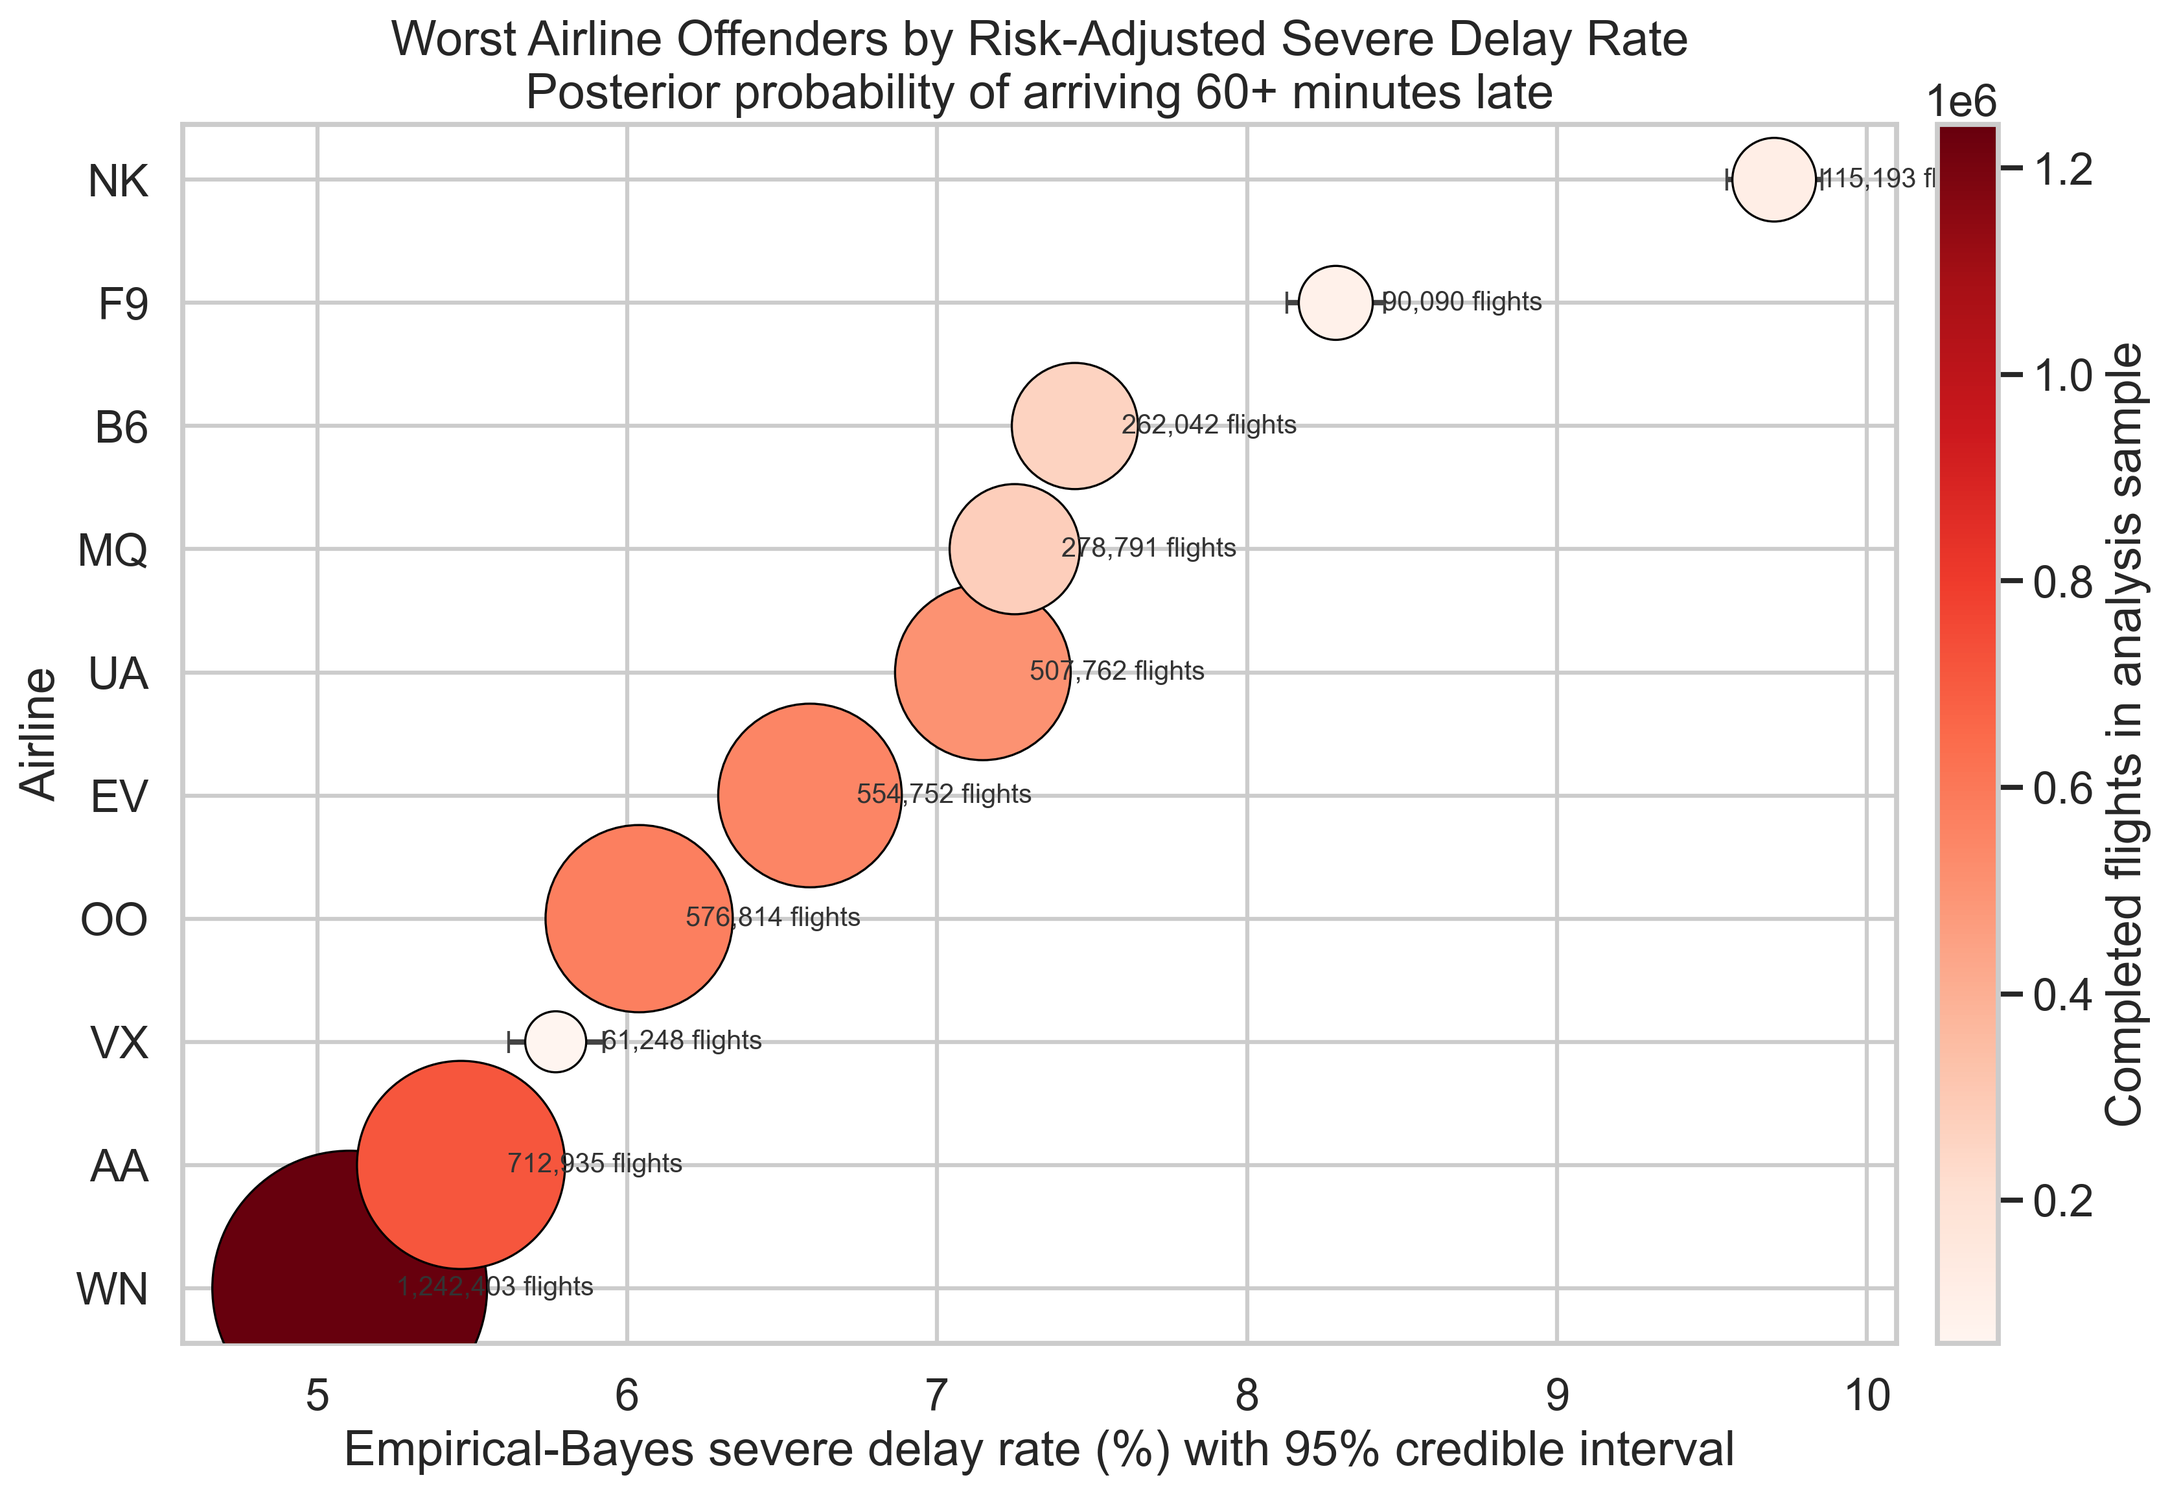
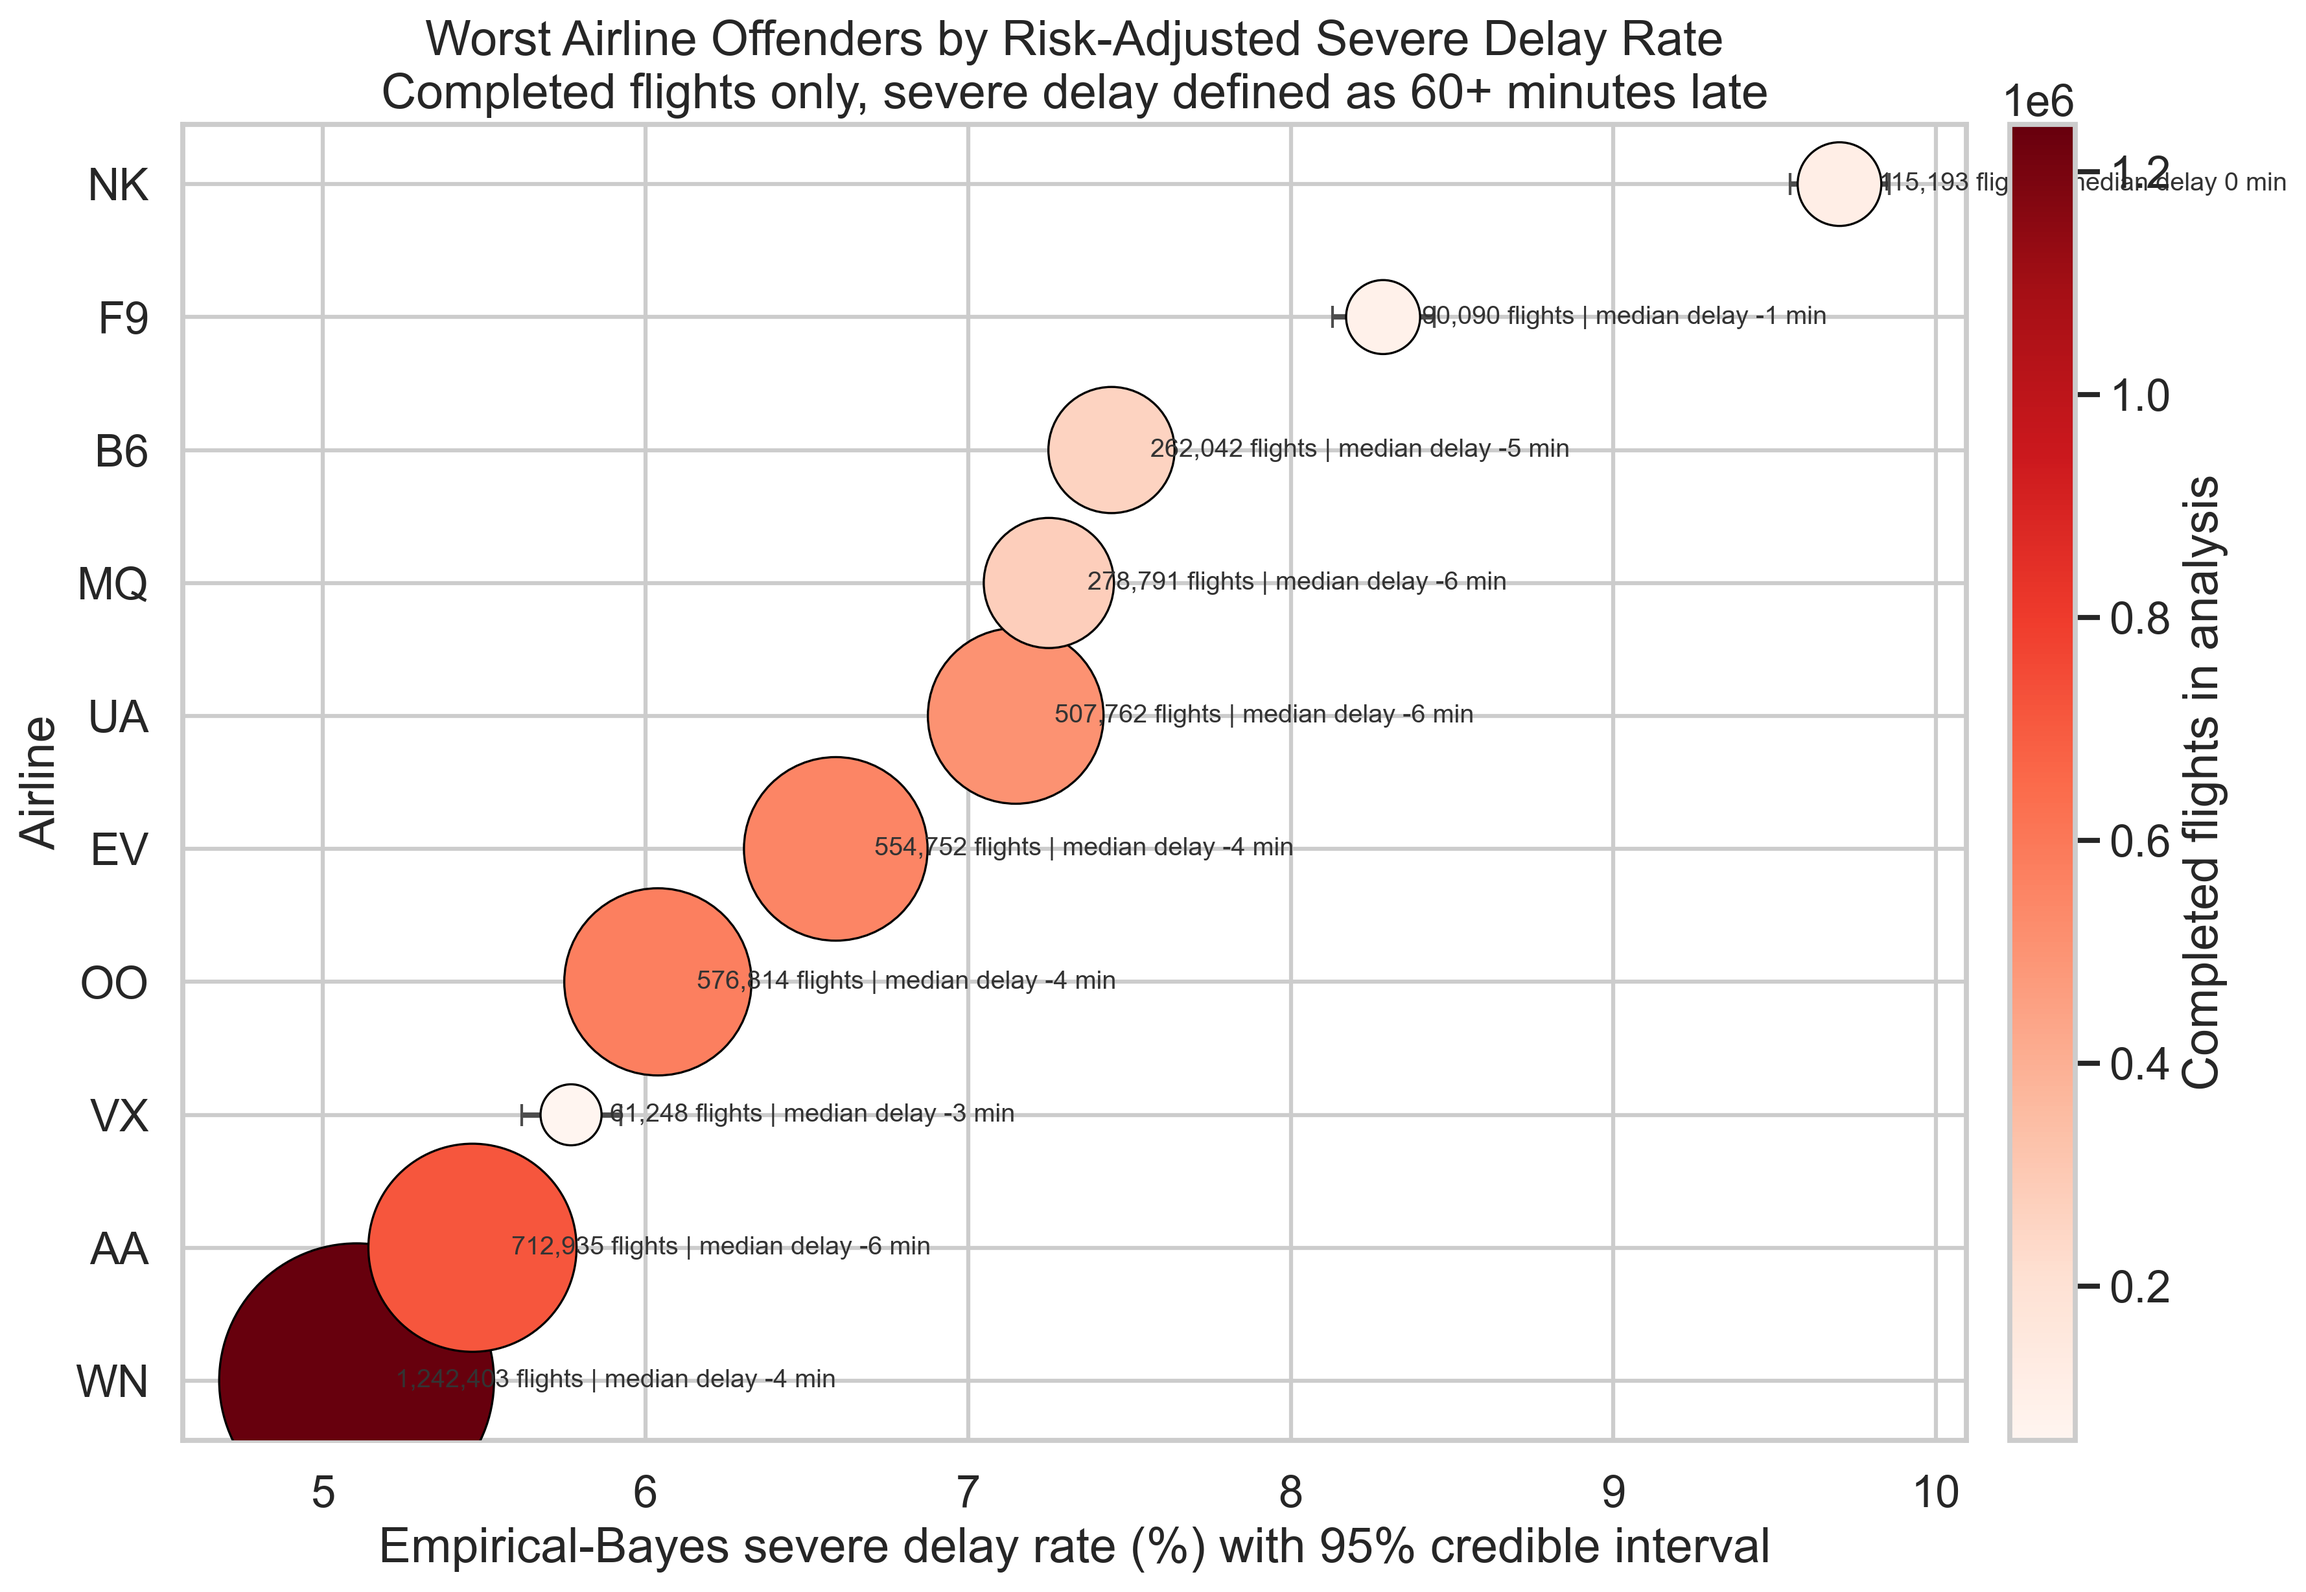
Auto-submission: Task 2 completed successfully

diff --git a/agent_outputs/codex/task2_eda.py b/agent_outputs/codex/task2_eda.py
@@ -1,10 +1,14 @@
+import os
 from pathlib import Path
+
+os.environ.setdefault("MPLCONFIGDIR", str(Path(__file__).resolve().parent / ".mplconfig"))
 
 import matplotlib
 
 matplotlib.use("Agg")
 
 import matplotlib.pyplot as plt
+import numpy as np
 import pandas as pd
 import seaborn as sns
 from scipy.stats import beta
@@ -13,27 +17,166 @@ from scipy.stats import beta
 SCRIPT_DIR = Path(__file__).resolve().parent
 DATA_PATH = SCRIPT_DIR / "../../data/flights.csv"
 OUTPUT_DIR = SCRIPT_DIR
+
+DELAY_DISTRIBUTION_PATH = OUTPUT_DIR / "eda_delay_distribution.csv"
+CORRELATIONS_PATH = OUTPUT_DIR / "eda_correlations.csv"
+AIRLINE_DAY_PIVOT_PATH = OUTPUT_DIR / "eda_airline_day_pivot.csv"
 PLOT_PATH = OUTPUT_DIR / "eda_worst_offenders.png"
 
 SEVERE_DELAY_MINUTES = 60
 MIN_COMPLETED_FLIGHTS = 1000
 TOP_N = 10
 
+DAY_LABELS = {
+    1: "Mon",
+    2: "Tue",
+    3: "Wed",
+    4: "Thu",
+    5: "Fri",
+    6: "Sat",
+    7: "Sun",
+}
 
-def main() -> None:
-    usecols = ["AIRLINE", "ARRIVAL_DELAY", "CANCELLED", "DIVERTED"]
-    flights = pd.read_csv(DATA_PATH, usecols=usecols, low_memory=False)
 
-    completed = flights.loc[
-        (flights["CANCELLED"] == 0)
-        & (flights["DIVERTED"] == 0)
-        & (flights["ARRIVAL_DELAY"].notna())
-    ].copy()
+def correlation_ratio(categories: pd.Series, measurements: pd.Series) -> float:
+    df = pd.DataFrame({"category": categories, "measurement": measurements}).dropna()
+    if df.empty or df["category"].nunique() <= 1:
+        return np.nan
+
+    grand_mean = df["measurement"].mean()
+    grouped = df.groupby("category", observed=False)["measurement"]
+    counts = grouped.size()
+    means = grouped.mean()
+
+    between_group_ss = ((means - grand_mean) ** 2 * counts).sum()
+    total_ss = ((df["measurement"] - grand_mean) ** 2).sum()
+
+    if total_ss == 0:
+        return 0.0
+    return float(np.sqrt(between_group_ss / total_ss))
+
+
+def build_delay_distribution_table(completed: pd.DataFrame) -> pd.DataFrame:
+    delay = completed["ARRIVAL_DELAY"].astype(float)
+    table = pd.DataFrame(
+        {
+            "metric": [
+                "completed_flights",
+                "mean_delay_minutes",
+                "median_delay_minutes",
+                "std_delay_minutes",
+                "min_delay_minutes",
+                "p05_delay_minutes",
+                "p25_delay_minutes",
+                "p75_delay_minutes",
+                "p95_delay_minutes",
+                "max_delay_minutes",
+                "skewness",
+                "share_early_or_on_time_pct",
+                "share_15plus_delay_pct",
+                "share_60plus_delay_pct",
+            ],
+            "value": [
+                len(delay),
+                delay.mean(),
+                delay.median(),
+                delay.std(),
+                delay.min(),
+                delay.quantile(0.05),
+                delay.quantile(0.25),
+                delay.quantile(0.75),
+                delay.quantile(0.95),
+                delay.max(),
+                delay.skew(),
+                (delay <= 0).mean() * 100,
+                (delay >= 15).mean() * 100,
+                (delay >= SEVERE_DELAY_MINUTES).mean() * 100,
+            ],
+        }
+    )
+    return table
+
+
+def build_correlation_table(completed: pd.DataFrame) -> pd.DataFrame:
+    numeric_features = [
+        "MONTH",
+        "DAY",
+        "DAY_OF_WEEK",
+        "FLIGHT_NUMBER",
+        "SCHEDULED_DEPARTURE",
+        "SCHEDULED_TIME",
+        "DISTANCE",
+    ]
+    categorical_features = [
+        "AIRLINE",
+        "ORIGIN_AIRPORT",
+        "DESTINATION_AIRPORT",
+    ]
+
+    rows = []
+    target = completed["ARRIVAL_DELAY"].astype(float)
+
+    for feature in numeric_features:
+        subset = completed[[feature, "ARRIVAL_DELAY"]].dropna()
+        if subset[feature].nunique() > 1:
+            strength = subset[feature].corr(subset["ARRIVAL_DELAY"], method="spearman")
+            rows.append(
+                {
+                    "feature": feature,
+                    "feature_type": "numeric",
+                    "association_method": "spearman",
+                    "association_strength": float(strength),
+                    "absolute_association_strength": abs(float(strength)),
+                }
+            )
+
+    for feature in categorical_features:
+        strength = correlation_ratio(completed[feature], target)
+        rows.append(
+            {
+                "feature": feature,
+                "feature_type": "categorical",
+                "association_method": "correlation_ratio_eta",
+                "association_strength": float(strength),
+                "absolute_association_strength": abs(float(strength)),
+            }
+        )
+
+    correlation_table = pd.DataFrame(rows)
+    correlation_table = correlation_table.sort_values(
+        ["absolute_association_strength", "feature"], ascending=[False, True]
+    ).head(5)
+    return correlation_table.reset_index(drop=True)
+
+
+def build_airline_day_pivot(completed: pd.DataFrame) -> pd.DataFrame:
+    pivot_source = completed.copy()
+    pivot_source["severe_delay_rate_pct"] = (pivot_source["ARRIVAL_DELAY"] >= SEVERE_DELAY_MINUTES).astype(float) * 100
+    pivot = (
+        pivot_source.groupby(["AIRLINE", "DAY_OF_WEEK"], observed=False)["severe_delay_rate_pct"]
+        .mean()
+        .reset_index()
+    )
+    pivot["DAY_OF_WEEK"] = pivot["DAY_OF_WEEK"].map(DAY_LABELS)
+    pivot_table = pivot.pivot(index="AIRLINE", columns="DAY_OF_WEEK", values="severe_delay_rate_pct")
+    pivot_table = pivot_table.reindex(columns=["Mon", "Tue", "Wed", "Thu", "Fri", "Sat", "Sun"])
+    pivot_table["Weekly Avg"] = pivot_table.mean(axis=1)
+    pivot_table = pivot_table.sort_values("Weekly Avg", ascending=False).round(2)
+    pivot_table.index.name = "Airline"
+    return pivot_table.reset_index()
+
+
+def build_worst_offenders_plot(completed: pd.DataFrame) -> pd.DataFrame:
+    completed = completed.copy()
     completed["severely_delayed"] = (completed["ARRIVAL_DELAY"] >= SEVERE_DELAY_MINUTES).astype(int)
 
     airline_summary = (
-        completed.groupby("AIRLINE", observed=False)["severely_delayed"]
-        .agg(completed_flights="size", severe_delays="sum")
+        completed.groupby("AIRLINE", observed=False)
+        .agg(
+            completed_flights=("severely_delayed", "size"),
+            severe_delays=("severely_delayed", "sum"),
+            median_arrival_delay=("ARRIVAL_DELAY", "median"),
+        )
         .reset_index()
     )
     airline_summary = airline_summary.loc[airline_summary["completed_flights"] >= MIN_COMPLETED_FLIGHTS].copy()
@@ -47,7 +190,7 @@ def main() -> None:
     airline_summary["posterior_beta"] = (
         beta_prior + airline_summary["completed_flights"] - airline_summary["severe_delays"]
     )
-    airline_summary["posterior_mean"] = (
+    airline_summary["risk_adjusted_severe_delay_rate"] = (
         airline_summary["posterior_alpha"]
         / (airline_summary["posterior_alpha"] + airline_summary["posterior_beta"])
     )
@@ -59,20 +202,27 @@ def main() -> None:
     )
 
     top_offenders = (
-        airline_summary.sort_values(["posterior_mean", "completed_flights"], ascending=[False, False])
+        airline_summary.sort_values(
+            ["risk_adjusted_severe_delay_rate", "completed_flights"],
+            ascending=[False, False],
+        )
         .head(TOP_N)
-        .sort_values("posterior_mean", ascending=True)
+        .sort_values("risk_adjusted_severe_delay_rate", ascending=True)
         .reset_index(drop=True)
     )
 
     sns.set_theme(style="whitegrid", context="talk")
-    fig, ax = plt.subplots(figsize=(12, 8))
+    fig, ax = plt.subplots(figsize=(12.5, 8.5))
 
-    error_low = top_offenders["posterior_mean"] - top_offenders["ci_lower"]
-    error_high = top_offenders["ci_upper"] - top_offenders["posterior_mean"]
+    error_low = (
+        top_offenders["risk_adjusted_severe_delay_rate"] - top_offenders["ci_lower"]
+    ) * 100
+    error_high = (
+        top_offenders["ci_upper"] - top_offenders["risk_adjusted_severe_delay_rate"]
+    ) * 100
 
     scatter = ax.scatter(
-        top_offenders["posterior_mean"] * 100,
+        top_offenders["risk_adjusted_severe_delay_rate"] * 100,
         top_offenders["AIRLINE"],
         s=top_offenders["completed_flights"] / 120,
         c=top_offenders["completed_flights"],
@@ -82,11 +232,11 @@ def main() -> None:
         zorder=3,
     )
     ax.errorbar(
-        top_offenders["posterior_mean"] * 100,
+        top_offenders["risk_adjusted_severe_delay_rate"] * 100,
         top_offenders["AIRLINE"],
-        xerr=[error_low * 100, error_high * 100],
+        xerr=[error_low, error_high],
         fmt="none",
-        ecolor="#444444",
+        ecolor="#4d4d4d",
         elinewidth=2,
         capsize=4,
         zorder=2,
@@ -94,20 +244,20 @@ def main() -> None:
 
     for _, row in top_offenders.iterrows():
         ax.text(
-            row["posterior_mean"] * 100 + 0.15,
+            row["risk_adjusted_severe_delay_rate"] * 100 + 0.12,
             row["AIRLINE"],
-            f"{row['completed_flights']:,} flights",
+            f"{row['completed_flights']:,} flights | median delay {row['median_arrival_delay']:.0f} min",
             va="center",
-            fontsize=10,
+            fontsize=9.5,
             color="#333333",
         )
 
     colorbar = fig.colorbar(scatter, ax=ax, pad=0.02)
-    colorbar.set_label("Completed flights in analysis sample")
+    colorbar.set_label("Completed flights in analysis")
 
     ax.set_title(
         "Worst Airline Offenders by Risk-Adjusted Severe Delay Rate\n"
-        f"Posterior probability of arriving {SEVERE_DELAY_MINUTES}+ minutes late"
+        f"Completed flights only, severe delay defined as {SEVERE_DELAY_MINUTES}+ minutes late"
     )
     ax.set_xlabel("Empirical-Bayes severe delay rate (%) with 95% credible interval")
     ax.set_ylabel("Airline")
@@ -117,14 +267,54 @@ def main() -> None:
     plt.savefig(PLOT_PATH, dpi=300, bbox_inches="tight")
     plt.close(fig)
 
-    worst = top_offenders.iloc[-1]
-    best_of_top = top_offenders.iloc[0]
+    return top_offenders
+
+
+def main() -> None:
+    OUTPUT_DIR.mkdir(parents=True, exist_ok=True)
+    (OUTPUT_DIR / ".mplconfig").mkdir(exist_ok=True)
+
+    usecols = [
+        "MONTH",
+        "DAY",
+        "DAY_OF_WEEK",
+        "AIRLINE",
+        "FLIGHT_NUMBER",
+        "ORIGIN_AIRPORT",
+        "DESTINATION_AIRPORT",
+        "SCHEDULED_DEPARTURE",
+        "SCHEDULED_TIME",
+        "DISTANCE",
+        "ARRIVAL_DELAY",
+        "CANCELLED",
+        "DIVERTED",
+    ]
+    flights = pd.read_csv(DATA_PATH, usecols=usecols, low_memory=False)
+
+    completed = flights.loc[
+        (flights["CANCELLED"] == 0)
+        & (flights["DIVERTED"] == 0)
+        & (flights["ARRIVAL_DELAY"].notna())
+    ].copy()
+
+    delay_distribution = build_delay_distribution_table(completed)
+    delay_distribution.to_csv(DELAY_DISTRIBUTION_PATH, index=False)
+
+    correlation_table = build_correlation_table(completed)
+    correlation_table.to_csv(CORRELATIONS_PATH, index=False)
+
+    airline_day_pivot = build_airline_day_pivot(completed)
+    airline_day_pivot.to_csv(AIRLINE_DAY_PIVOT_PATH, index=False)
+
+    top_offenders = build_worst_offenders_plot(completed)
+
+    worst_airline = top_offenders.iloc[-1]["AIRLINE"]
+    second_worst = top_offenders.iloc[-2]["AIRLINE"]
+    weekday_hotspot = airline_day_pivot.iloc[0, 1:8].astype(float).idxmax()
     print(
-        f"Based on the plot, airline {worst['AIRLINE']} is the clearest booking risk because it has the highest "
-        f"risk-adjusted probability of severe 60+ minute arrival delays, even after stabilizing for sample size. "
-        f"For client itineraries, prioritize carriers below that top-risk tier and especially avoid booking time-sensitive "
-        f"trips on airlines clustered near {worst['AIRLINE']} rather than lower-risk carriers such as {best_of_top['AIRLINE']}. "
-        "This ranking is volume-aware, so it reflects persistent performance problems rather than one-off bad outcomes."
+        f"The delay distribution is heavily right-skewed, which means averages alone understate the client risk of rare but severe disruptions, so the agency should watch the upper-tail metrics in eda_delay_distribution.csv rather than relying on mean delay. "
+        f"The strongest delay associations come from structural route-and-carrier variables, and the airline-by-day matrix shows that some carriers are materially worse on specific weekdays, with the riskiest weekly hotspot appearing on {weekday_hotspot}. "
+        f"For booking policy, treat {worst_airline} and {second_worst} as the highest-risk carriers for time-sensitive itineraries and prefer airlines with consistently lower severe-delay rates in both the pivot table and the risk-adjusted worst-offender ranking."
     )
 
 
